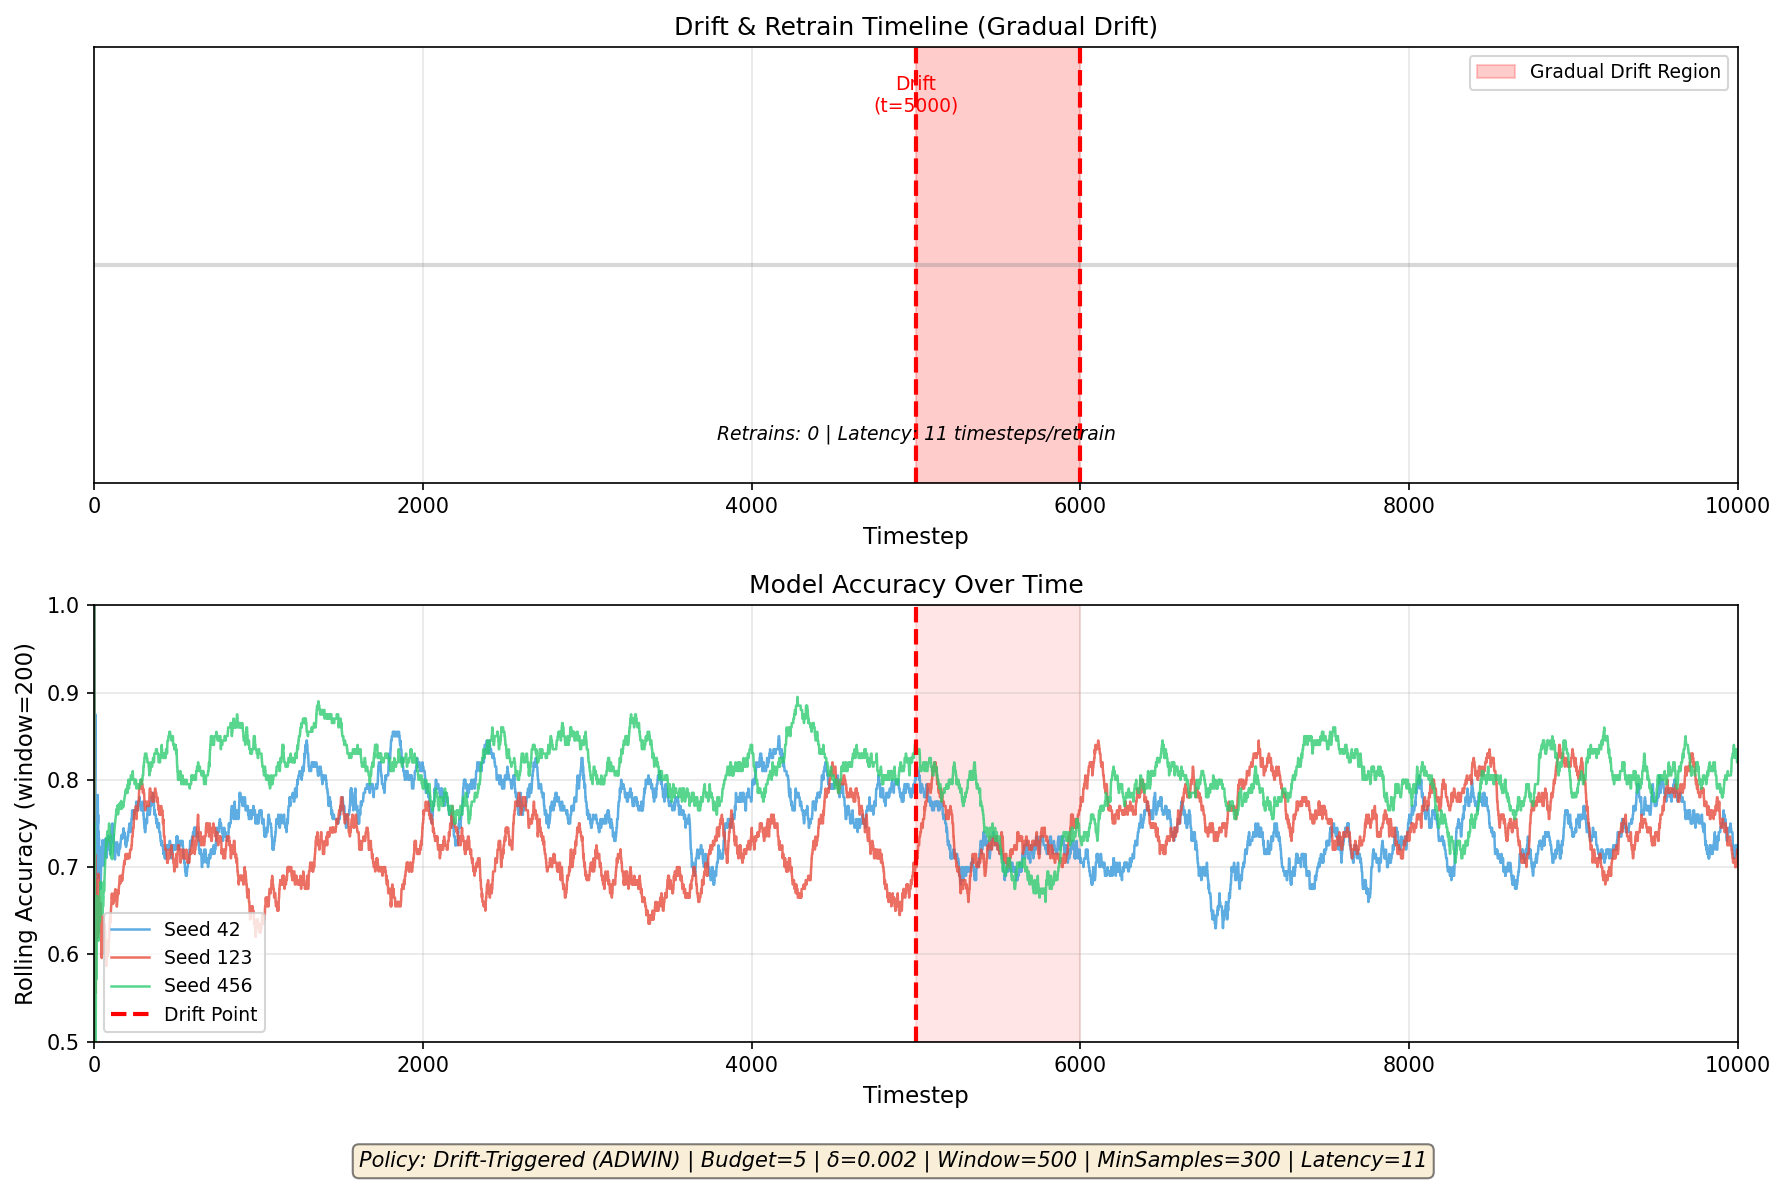
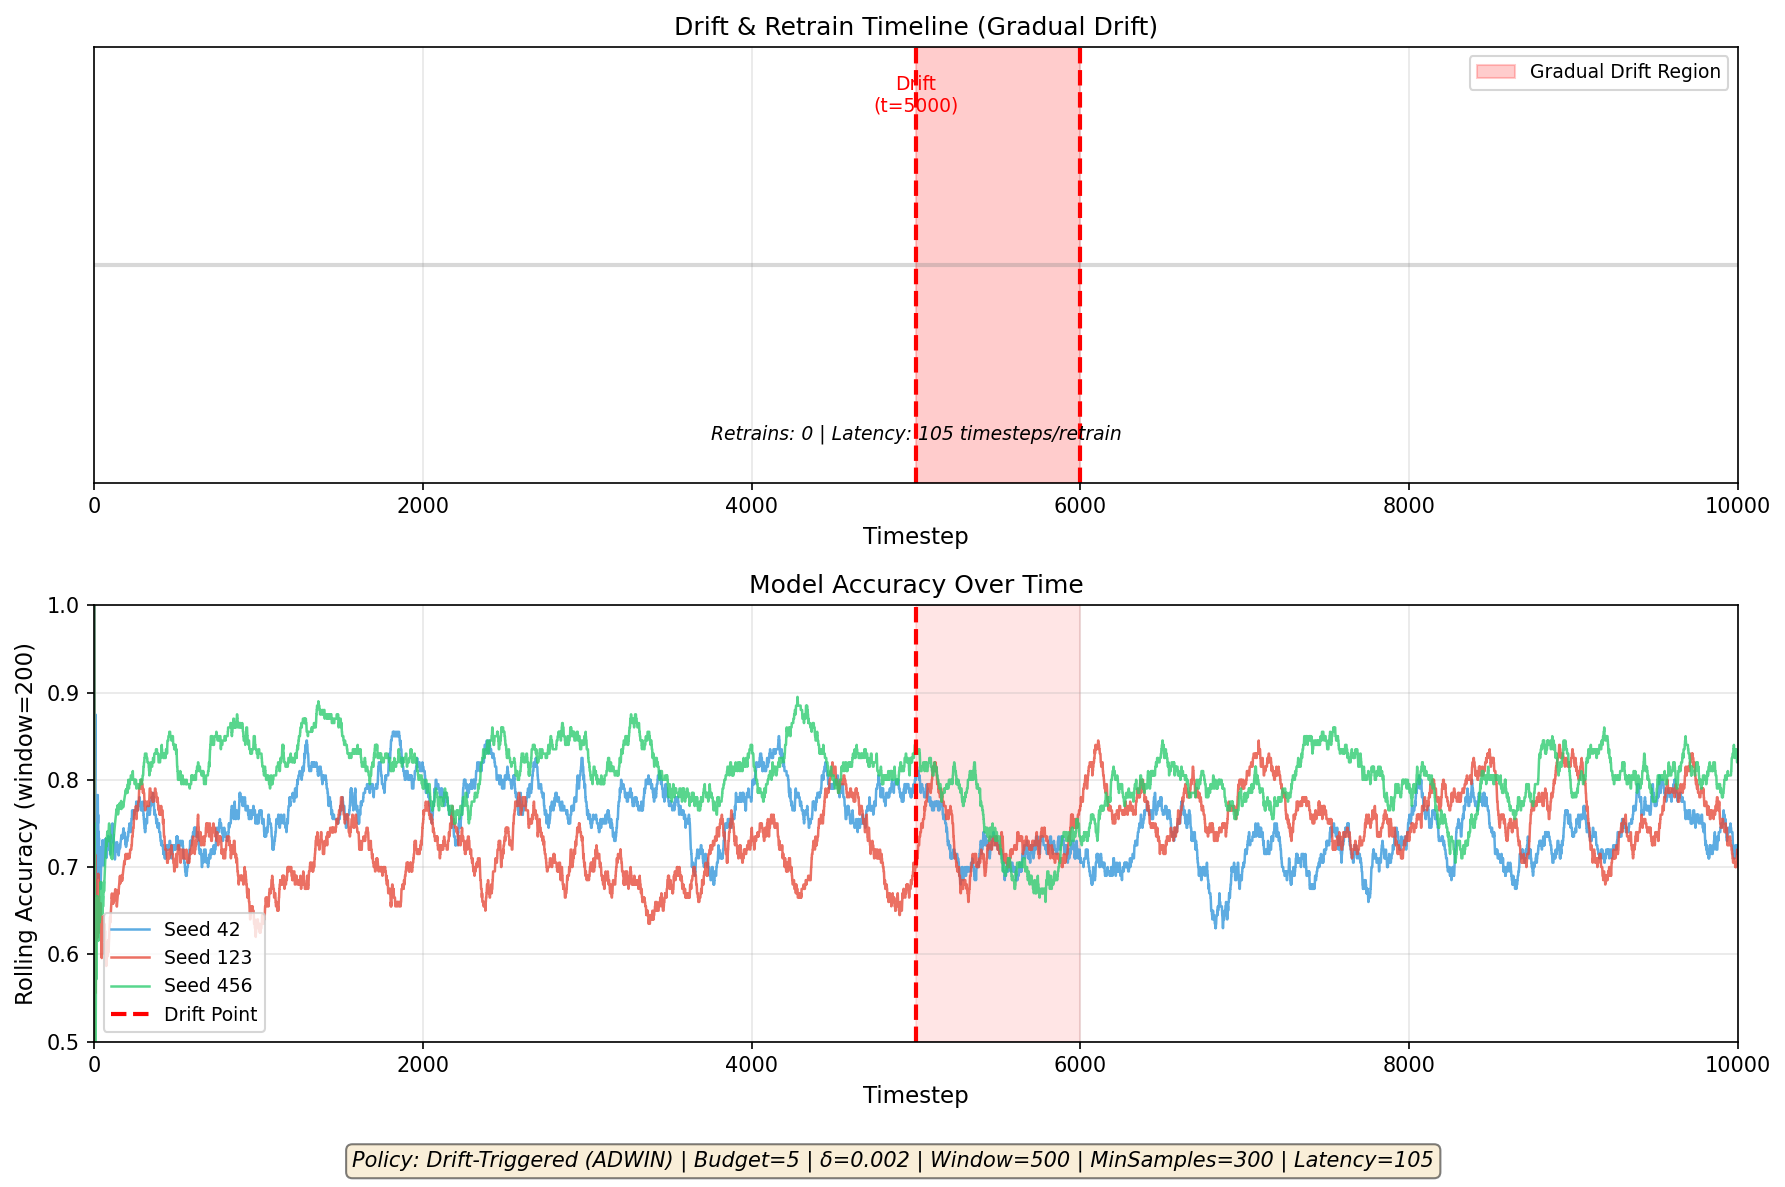
week 6: ran experiment with drift triggered retrain policy with gradual drift, low budget and med latency

Changed region(s): [[0.1849, 0.9663, 0.8319, 0.9975], [0.4006, 0.3429, 0.6162, 0.3741]]

diff --git a/main.py b/main.py
@@ -44,10 +44,10 @@ def main():
         #   window_size=500: max recent errors considered for drift detection
         #   min_samples=300: minimum observations before detection activates
         #   budget=5: allows up to 5 retrains during the experiment
-        # - Low latency: retrain_latency=10, deploy_latency=1
+        # - Med latency: retrain_latency=100, deploy_latency=5
         # - MetricsTracker: Records prediction accuracy/errors over time
         model = StreamingModel()
-        policy = DriftTriggeredPolicy(delta=0.002, window_size=500, min_samples=300, budget=5, retrain_latency=10, deploy_latency=1)
+        policy = DriftTriggeredPolicy(delta=0.002, window_size=500, min_samples=300, budget=5, retrain_latency=100, deploy_latency=5)
         metrics = MetricsTracker()
 
         # Set metadata in metrics for post-analysis
